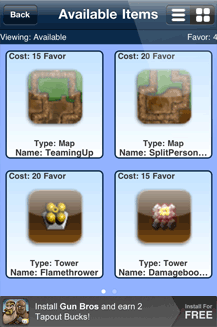
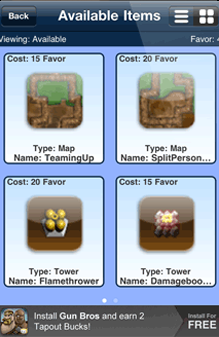
clean up + replace images

diff --git a/tapjoyads/public/stylesheets/sass/app_developers.scss b/tapjoyads/public/stylesheets/sass/app_developers.scss
@@ -6,22 +6,86 @@
 #knowledgebase { float: left; margin-bottom: 25px; width: 100%; }
 
 /** screenshots **/
-#developer_phone { background: url('/images/developer_phone.gif'); float: left; height: 596px; margin-left: -42px; width: 309px; }
+#developer_phone {
+  background: url('/images/developer_phone.png') no-repeat;
+  float: left;
+  height: 596px;
+  margin: {
+    left: -42px;
+    top: 10px;
+  }
+  width: 309px;
+}
 #dots { float: left; margin: 175px 0 0 25px; width: 14px; }
-.screenshot { display: none; float: left; margin: 90px 0 0 25px; }
+.screenshot {
+  display: none;
+  float: left;
+  margin: 60px 0 0 25px;
+}
 
 /** product info **/
-#product_info { float: left; margin: 34px 0 0 24px; width: 390px; }
-#products { float: left; font-size: 14px; width: 100%; }
-#products a { color: #787878; float: left; font-weight: bold; margin-right: 7px; font-size: 13px; }
-#products .selected { color: #008ac8; float: left; margin-right: 7px; }
-#products .divider { color: #787878; float: left; margin-right: 7px; }
+#products {
+  float: left;
+  font-size: 14px;
+  width: 100%;
+  a {
+    color: #787878;
+    float: left;
+    margin-right: 7px;
+    font: {
+      weight: bold;
+      size: 13px;
+    }
+  }
+  .selected {
+    color: #008ac8;
+    float: left;
+    margin-right: 7px;
+  }
+  .divider {
+    color: #787878;
+    float: left;
+    margin-right: 7px;
+    &:after {
+      content: "|";
+    }
+  }
+}
 
-#product_title { background: url('/images/developer_ribbon.png'); height: 45px; margin: 36px 0 0 -24px; width: 213px; }
-#product_title span { color: #fff; float: left; font-size: 20px; font-weight: bold; margin: 12px 0 0 24px; }
+#product_title {
+  background: url('/images/developer_ribbon.png');
+  height: 45px;
+  margin: 36px 0 0 -24px;
+  width: 213px;
+  span {
+    color: #fff;
+    float: left;
+    margin: 12px 0 0 24px;
+    font: {
+      size: 20px;
+      weight: bold;
+    }
+  }
+}
 
-#product_info p { clear: left; float: left; font-size: 13px; line-height: 17px; margin-top: 20px; width: 390px; }
-#product_info p a { font-size: 14px; font-weight: bold; }
+#product_info { float: left;
+  margin: 34px 0 0 24px;
+  width: 390px;
+  p {
+    clear: left;
+    float: left;
+    font-size: 13px;
+    line-height: 17px;
+    margin-top: 20px;
+    width: 390px;
+    a {
+      font: {
+        size: 14px;
+        weight: bold;
+      }
+    }
+  }
+}
 
 .product_details { display: none; }
 
@@ -29,11 +93,29 @@
 #info { background: #f7f7f7; float: left; margin: 34px 0 0 16px; padding-bottom: 10px; width: 282px; }
 #top { background: #e9e9e9; height: 38px; width: 282px; }
 #top > span { color: #525252; float: left; font-weight: bold; font-size: 14px; margin-top: 12px; text-align: center; width: 100%; }
-.item { margin: 12px 0 12px 12px; width: 270px; }
-.item * { float: left; }
-.item img {  }
-.item span { color: #315364; float: left; font-size: 13px; font-weight: bold; margin-left: 13px; width: 175px; }
-.item p { float: left; font-size: 12px; margin: 8px 0 0 13px; width: 175px; }
+.item {
+  margin: 12px 0 12px 12px;
+  width: 270px;
+  * {
+    float: left;
+  }
+  span {
+    color: #315364;
+    float: left;
+    font: {
+      size: 13px;
+      weight: bold;
+    }
+    margin-left: 13px;
+    width: 175px;
+  }
+  p {
+    float: left;
+    font-size: 12px;
+    margin: 8px 0 0 13px;
+    width: 175px;
+  }
+}
 #info .divider { margin-left: 10px; }
 
 .show { display: block; }
